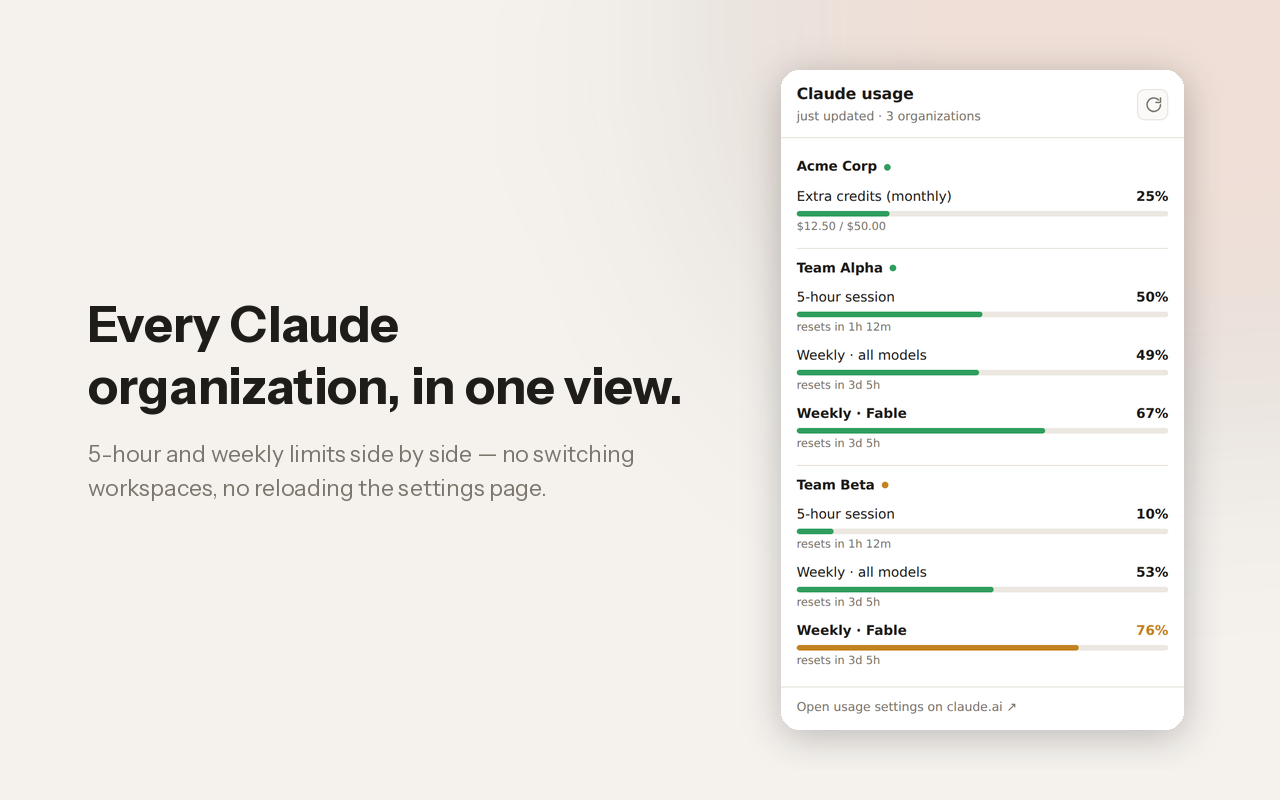
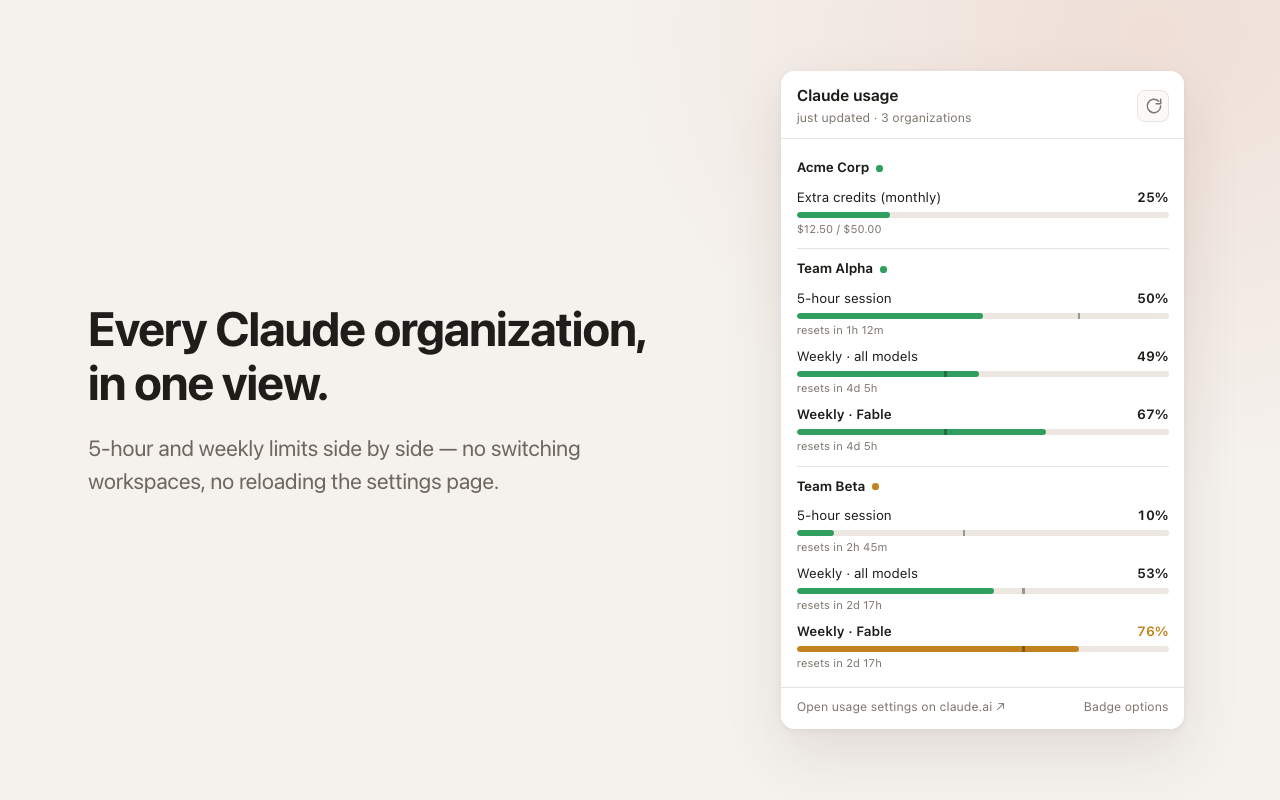
chore: refresh store screenshots for the pace marker
Re-render the overview, dark and marquee images from the current popup,
and add a fifth screenshot that explains the pace marker.

Claude-Session: https://claude.ai/code/session_01QKQHrbrThL9RaH7VgQ2VY3

diff --git a/store/LISTING.md b/store/LISTING.md
@@ -83,7 +83,7 @@ Display the current usage limits of the signed-in user's claude.ai organizations
 | --- | --- | --- |
 | Store icon 128×128 | `store/store-logo-128x128.png` | Chrome |
 | Store logo 300×300 | `store/store-logo-300x300.png` | Edge |
-| Screenshots 1280×800 | `store/screenshots/01-overview.png`, `02-dark.png`, `03-privacy.png`, `04-options.png` | Chrome (1–5), Edge (1–10) |
+| Screenshots 1280×800 | `store/screenshots/01-overview.png`, `02-dark.png`, `03-privacy.png`, `04-options.png`, `05-pace.png` | Chrome (1–5), Edge (1–10) |
 | Small promo tile 440×280 | `store/promo-tile-440x280.png` | Chrome (optional) |
 | Marquee promo tile 1400×560 | `store/promo-marquee-1400x560.png` | Chrome (optional, only shown if featured) |
 | Privacy policy URL | host `store/PRIVACY.md` (GitHub raw or Pages) | Chrome, Edge |
